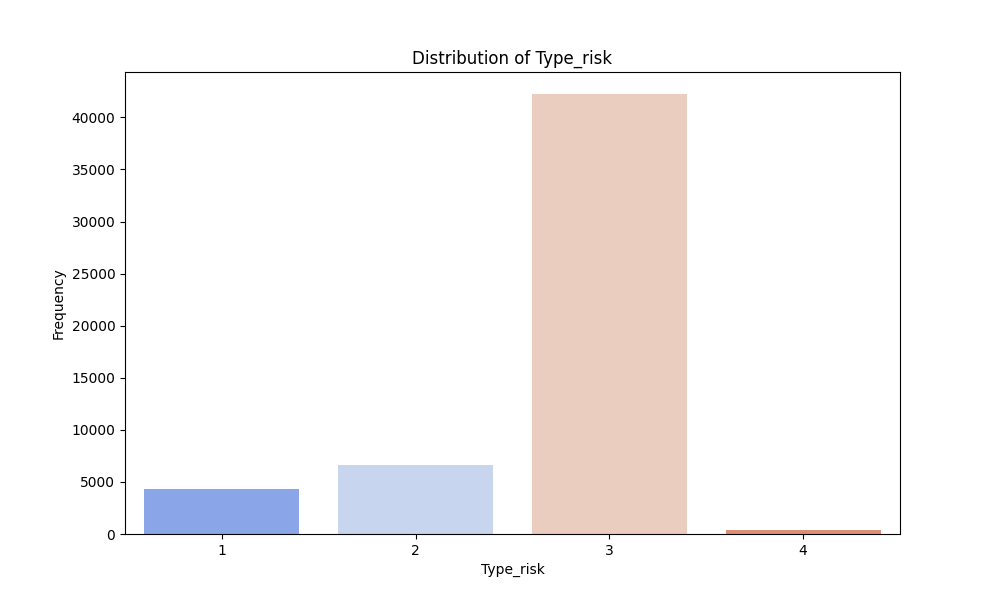
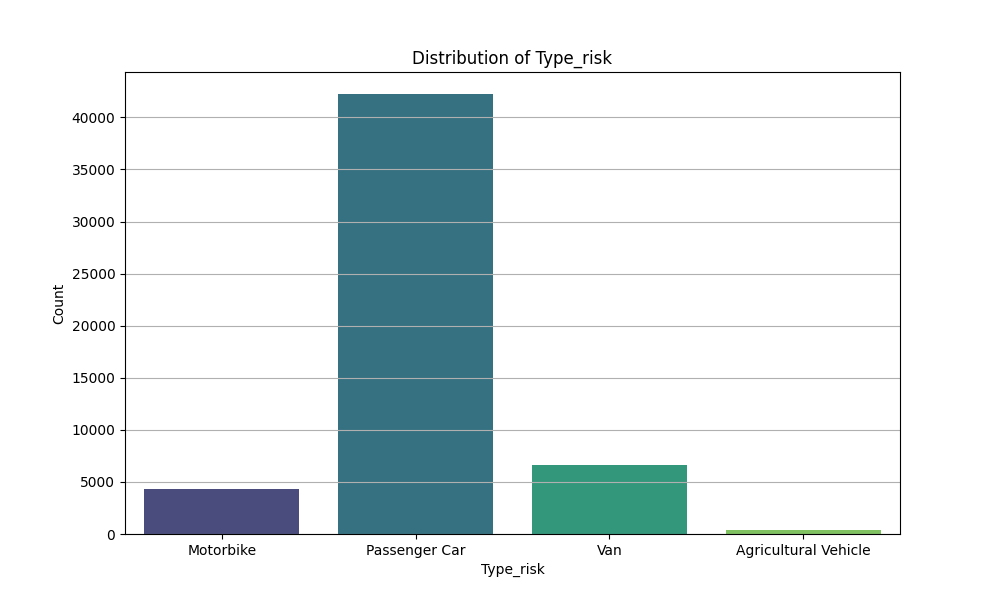
added more diagrams

diff --git a/diagrams.py b/diagrams.py
@@ -20,20 +20,41 @@ from sklearn.metrics import mean_squared_error, mean_absolute_error
 import joblib
 import datetime
 
+from sklearn.metrics import r2_score
+import joblib
+import os
+
 #using gpu
 device = torch.device("cuda" if torch.cuda.is_available() else "cpu")
 
-
+def definition_of_type_risk(number):
+    if number == 1:
+        return "Motorbike"
+    elif number == 2:
+        return "Van"
+    elif number == 3:
+        return "Passenger Car"
+    elif number == 4:
+        return "Agricultural Vehicle"
+    else:
+        return "All"
+    
+    
 filename = "Motor_vehicle_insurance_data.csv"
 
 #Reading the csv
 data = pd.read_csv(filename, sep=';')
 
+directory = "xgbModels"
+if not os.path.exists(directory):
+    os.makedirs(directory) 
 
 #ID;Date_start_contract;Date_last_renewal;Date_next_renewal;Date_birth;Date_driving_licence;
 #Distribution_channel;Seniority;Policies_in_force;Max_policies;Max_products;Lapse;Date_lapse;
 #Payment;Premium;Cost_claims_year;N_claims_year;N_claims_history;R_Claims_history;Type_risk;Area;
 #Second_driver;Year_matriculation;Power;Cylinder_capacity;Value_vehicle;N_doors;Type_fuel;Length;Weight
+
+#Feature engineering
 
 last_renewal_day = pd.to_datetime(data['Date_last_renewal'], format='%d/%m/%Y')
 last_renewal_year = last_renewal_day.dt.year
@@ -92,30 +113,36 @@ data['Years_on_policy'] = years_on_policy
 
 data['accidents'] = data['N_claims_history'] / (data['Years_on_policy'] + 1)
 
+data['Age_Years_Driving_Interaction'] = data['Age'] * data['Years_driving']
+
 
 #We combine the doors and the category into one column
 combined_values = data['Type_risk'].astype(str) + '_' + data['N_doors'].astype(str)
 data['Combined_doors_type'] = combined_values
 
-columnsToUse = ['Seniority', 'Premium', 'Type_risk', 'Area', 'Second_driver', 'Years_on_road', 'R_Claims_history', 'Years_on_policy', 'accidents',
+
+columnsToUse = ['Seniority', 'Premium', 'Type_risk', 'Area', 'Second_driver', 'Years_on_road', 'R_Claims_history', 'Years_on_policy', 'accidents', 
 			'Value_vehicle', 'Age', 'Years_driving', 'Distribution_channel', 'N_claims_history', 'Power', 'Cylinder_capacity',
 			'Weight', 'Length', 'Type_fuel', 'Payment', 'Contract_year', 'Policies_in_force', 'Lapse']
 
 data = data[columnsToUse]
 
-# data = data[(data['Type_risk'] == 3)]
+
 
 #We fill the missing length value with the mean so we can use the rest of the row
-# data['Length'].fillna(data['Length'].mean(), inplace=True)
-#We fill the missing fuel type with the most common type
-# data['Type_fuel'].fillna(data['Type_fuel'].mode()[0], inplace=True)
+data['Length'] = data['Length'].fillna(data['Length'].mean())
+
+#Replace the null values of fuel types the a third value
+null_indices = data['Type_fuel'].isnull()
+data.loc[null_indices, 'Type_fuel'] = 'Unknown'
 
 # Remove rows with empty values. There aren't many of them so this doesn't affect the data
 # data = data.dropna()
 
-categoricalColumns = ['Type_risk', 'Area', 'Second_driver', 'Distribution_channel', 'Type_fuel', 'Payment']
+categoricalColumns = [ 'Area', 'Second_driver', 'Distribution_channel', 'Type_fuel', 'Payment']
 numericalColumns = ['Seniority', 'Years_on_road','Value_vehicle','Age', 'Years_driving', 'N_claims_history', 'Power', 'Cylinder_capacity', 
 					'Weight', 'Length', 'Contract_year', 'R_Claims_history', 'Years_on_policy', 'accidents', 'Policies_in_force', 'Lapse']
+
 
 preprocessor = ColumnTransformer(
 transformers=[
@@ -196,6 +223,18 @@ def add_stats_to_plot(ax, data):
             verticalalignment='top', horizontalalignment='right',
             bbox=dict(boxstyle='round', facecolor='white', alpha=0.7))
 
+# Plotting the distribution of Type_risk
+# Map numeric values to labels in the Type_risk column
+data['Type_risk'] = data['Type_risk'].map({1: "Motorbike", 2: "Van", 3: "Passenger Car", 4: "Agricultural Vehicle"})
+
+# Plotting the distribution of Type_risk
+plt.figure(figsize=(10, 6))
+sns.countplot(data=data, x='Type_risk', palette='viridis')
+plt.title('Distribution of Type_risk')
+plt.xlabel('Type_risk')
+plt.ylabel('Count')
+plt.grid(axis='y')
+plt.show()
 # # # Label: Premium
 # plt.figure(figsize=(12, 8))
 # ax = sns.histplot(data['Premium'], kde=True, bins=20)
@@ -205,6 +244,17 @@ def add_stats_to_plot(ax, data):
 # add_stats_to_plot(ax, data['Premium'])
 # plt.show()
 
+# # Calculate average premium for each age group
+# average_premium_by_age = data.groupby('Age')['Premium'].mean()
+
+# # Plotting average premium against age
+# plt.figure(figsize=(10, 6))
+# plt.plot(average_premium_by_age.index, average_premium_by_age.values, marker='o')
+# plt.title('Average Premium vs. Age')
+# plt.xlabel('Age')
+# plt.ylabel('Average Premium')
+# plt.grid(True)
+# plt.show()
 
 # def plot_premium_by_type_risk(data, type_risk_value):
 #     # Filter the data for the given Type_risk category
@@ -230,84 +280,84 @@ def add_stats_to_plot(ax, data):
 # plot_premium_by_type_risk(data, 4)  # For Type_risk = 4
 # List of categorical features
 # List of categorical features
-categorical_features = ['Payment', 'Distribution_channel', 'Second_driver']
+# categorical_features = ['Payment', 'Distribution_channel', 'Second_driver']
 
-# # Numerical feature to visualize
-numerical_feature = 'Premium'
+# # # # Numerical feature to visualize
+# numerical_feature = 'Premium'
 
-def map_x_labels(x):
-    if x == 0:
-        return 'one driver'
-    elif x == 1:
-        return 'multiple drivers'
-    else:
-        return x
+# def map_x_labels(x):
+#     if x == 0:
+#         return 'one driver'
+#     elif x == 1:
+#         return 'multiple drivers'
+#     else:
+#         return x
     
-# Mapping function for x-axis labels
-def map_distribution_channel_labels(x):
-    if x == 0:
-        return 'Agent'
-    elif x == 1:
-        return 'Insurance brokers'
-    elif x ==x:
-        return 'Other'
-# Mapping function for x-axis labels
-def map_payment_labels(x):
-    if x == 0:
-        return 'Annual'
-    elif x == 1:
-        return 'Half-yearly administrative'
+# # Mapping function for x-axis labels
+# def map_distribution_channel_labels(x):
+#     if x == 0:
+#         return 'Agent'
+#     elif x == 1:
+#         return 'Insurance brokers'
+#     elif x ==x:
+#         return 'Other'
+# # Mapping function for x-axis labels
+# def map_payment_labels(x):
+#     if x == 0:
+#         return 'Annual'
+#     elif x == 1:
+#         return 'Half-yearly administrative'
     
 
-# Loop through each categorical feature and create separate plots for each Type_risk category
-for feature in categorical_features:
-    for type_risk_value in data['Type_risk'].unique():
-        # Filter the data for the given Type_risk category
-        subset_data = data[data['Type_risk'] == type_risk_value]
+# # Loop through each categorical feature and create separate plots for each Type_risk category
+# for feature in categorical_features:
+#     for type_risk_value in data['Type_risk'].unique():
+#         # Filter the data for the given Type_risk category
+#         subset_data = data[data['Type_risk'] == type_risk_value]
 
-        # Create a new plot
-        plt.figure(figsize=(12, 8))
+#         # Create a new plot
+#         plt.figure(figsize=(12, 8))
 
-        # Create a swarm plot
-        sns.stripplot(
-            x=feature,
-            y=numerical_feature,
-            data=subset_data,
-            palette='viridis',
-            jitter=True,  # Add jitter for better separation of points
-            label=f'Type_risk = {type_risk_value}'
-        )
+#         # Create a swarm plot
+#         sns.stripplot(
+#             x=feature,
+#             y=numerical_feature,
+#             data=subset_data,
+#             palette='viridis',
+#             jitter=True,  # Add jitter for better separation of points
+#             label=f'Type_risk = {type_risk_value}'
+#         )
 
-        # Map x-axis labels for each feature
-        if feature == 'Second_driver':
-            plt.xticks(ticks=[0, 1], labels=[map_x_labels(0), map_x_labels(1)])
-        elif feature == 'Distribution_channel':
-            plt.xticks(ticks=[0, 1], labels=[map_distribution_channel_labels(0), map_distribution_channel_labels(1)])
-        elif feature == 'Payment':
-            plt.xticks(ticks=subset_data['Payment'].unique(), labels=[map_payment_labels(x) for x in subset_data['Payment'].unique()])
+#         # Map x-axis labels for each feature
+#         if feature == 'Second_driver':
+#             plt.xticks(ticks=[0, 1], labels=[map_x_labels(0), map_x_labels(1)])
+#         elif feature == 'Distribution_channel':
+#             plt.xticks(ticks=[0, 1], labels=[map_distribution_channel_labels(0), map_distribution_channel_labels(1)])
+#         elif feature == 'Payment':
+#             plt.xticks(ticks=subset_data['Payment'].unique(), labels=[map_payment_labels(x) for x in subset_data['Payment'].unique()])
 
-        # Add title and labels
-        if (type_risk_value == 1):
-            plt.title(f'Distribution of {numerical_feature} by {feature} for Motorcycles', fontsize=14, pad=20)
-        elif (type_risk_value == 2):
-             plt.title(f'Distribution of {numerical_feature} by {feature} for Vans', fontsize=14, pad=20)
-        elif (type_risk_value == 3):
-             plt.title(f'Distribution of {numerical_feature} by {feature} for Passenger Cars', fontsize=14, pad=20)
-        elif (type_risk_value == 4):
-             plt.title(f'Distribution of {numerical_feature} by {feature} for Argicultular Vehicles', fontsize=14, pad=20)
+#         # Add title and labels
+#         if (type_risk_value == 1):
+#             plt.title(f'Distribution of {numerical_feature} by {feature} for Motorcycles', fontsize=14, pad=20)
+#         elif (type_risk_value == 2):
+#              plt.title(f'Distribution of {numerical_feature} by {feature} for Vans', fontsize=14, pad=20)
+#         elif (type_risk_value == 3):
+#              plt.title(f'Distribution of {numerical_feature} by {feature} for Passenger Cars', fontsize=14, pad=20)
+#         elif (type_risk_value == 4):
+#              plt.title(f'Distribution of {numerical_feature} by {feature} for Argicultular Vehicles', fontsize=14, pad=20)
 
-        plt.xlabel(feature, fontsize=12)
+#         plt.xlabel(feature, fontsize=12)
 
-        plt.ylabel(numerical_feature, fontsize=12)
+#         plt.ylabel(numerical_feature, fontsize=12)
 
-        # # Add legend
-        # plt.legend(title='Type_risk')
+#         # # Add legend
+#         # plt.legend(title='Type_risk')
 
-        # Optional: Add grid lines for better readability
-        plt.grid(True, linestyle='--', alpha=0.6)
+#         # Optional: Add grid lines for better readability
+#         plt.grid(True, linestyle='--', alpha=0.6)
 
-        # Show the plot
-        plt.show()
+#         # Show the plot
+#         plt.show()
 # Loop through each categorical feature and create a swarm plot
 # for feature in categorical_features:
 #     plt.figure(figsize=(12, 8))  # Adjust figure size as needed
